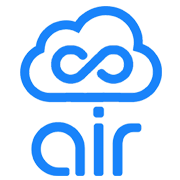
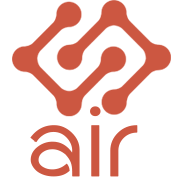
Change theme to red

diff --git a/assets/css/theme-orange.css b/assets/css/theme-orange.css
@@ -817,42 +817,42 @@ a:hover, a:focus, a:active { color: #de6288; }
 .io-zinnia .btns a:not(.btn) { color: rgba(254, 67, 80, 0.5); }
 .io-zinnia .btns a:not(.btn):hover { color: #58b4ff; }
 .io-zinnia .section-bg { background: #fff; }
-.io-zinnia .section-bg-alt { background: #f2f9ff; }
+/*!.io-zinnia .section-bg-alt { background: #f2f9ff; }*/
 .io-zinnia .section-bg, .io-zinnia .section-bg-alt { color: #4c5a77; }
 .io-zinnia .section-bg h1, .io-zinnia .section-bg h2, .io-zinnia .section-bg h3, .io-zinnia .section-bg h4, .io-zinnia .section-bg h5, .io-zinnia .section-bg h6, .io-zinnia .section-bg-alt h1, .io-zinnia .section-bg-alt h2, .io-zinnia .section-bg-alt h3, .io-zinnia .section-bg-alt h4, .io-zinnia .section-bg-alt h5, .io-zinnia .section-bg-alt h6 { color: #4c5a77; }
-.io-zinnia .section-bg p, .io-zinnia .section-bg-alt p { color: #4c5a77; }
+.io-zinnia .section-bg p, .io-zinnia .section-bg-alt p { color: #484848; }
 .io-zinnia .section-bg p.lead, .io-zinnia .section-bg-alt p.lead { color: #223b55; }
-.io-zinnia .section-bg .section-title-s7, .io-zinnia .section-bg .section-title-md, .io-zinnia .section-bg-alt .section-title-s7, .io-zinnia .section-bg-alt .section-title-md { color: #58b4ff; }
-.io-zinnia .section-bg-zinnia, .io-zinnia .section-bg-gradient { background: #58b4ff; color: #fff; }
+/*!.io-zinnia .section-bg .section-title-s7, .io-zinnia .section-bg .section-title-md, .io-zinnia .section-bg-alt .section-title-s7, .io-zinnia .section-bg-alt .section-title-md { color: #58b4ff; }*/
+/*.io-zinnia .section-bg-zinnia, .io-zinnia .section-bg-gradient { background: #58b4ff; color: #fff; }*/
 .io-zinnia .section-bg-zinnia h1, .io-zinnia .section-bg-zinnia h2, .io-zinnia .section-bg-zinnia h3, .io-zinnia .section-bg-zinnia h4, .io-zinnia .section-bg-zinnia h5, .io-zinnia .section-bg-zinnia h6, .io-zinnia .section-bg-zinnia p, .io-zinnia .section-bg-zinnia p.lead, .io-zinnia .section-bg-zinnia .section-head-s7 p, .io-zinnia .section-bg-zinnia .section-title-s7, .io-zinnia .section-bg-zinnia .section-title-md, .io-zinnia .section-bg-gradient h1, .io-zinnia .section-bg-gradient h2, .io-zinnia .section-bg-gradient h3, .io-zinnia .section-bg-gradient h4, .io-zinnia .section-bg-gradient h5, .io-zinnia .section-bg-gradient h6, .io-zinnia .section-bg-gradient p, .io-zinnia .section-bg-gradient p.lead, .io-zinnia .section-bg-gradient .section-head-s7 p, .io-zinnia .section-bg-gradient .section-title-s7, .io-zinnia .section-bg-gradient .section-title-md { color: #fff; }
 .io-zinnia .section-bg-gradient { background-image: linear-gradient(135deg, #1996FB 0%, #58b4ff 100%); }
-.io-zinnia .footer-section { background-image: linear-gradient(45deg, #1996FB 0%, #58b4ff 100%); }
+/*!.io-zinnia .footer-section { background-image: linear-gradient(45deg, #1996FB 0%, #58b4ff 100%); }*/
 .io-zinnia .footer-bottom .copyright-text { color: #fff; }
 .io-zinnia .widget-title { color: #fff; }
 .io-zinnia .timeline-title { color: #1996FB; }
 .io-zinnia .timeline-done .timeline-title { color: #223b55; }
-.io-zinnia .header-txt p { color: #ddf0ff; }
-.io-zinnia .btn { color: #fff; background-image: -webkit-linear-gradient(to right, #1996FB 0%, #58b4ff 100%); background-image: linear-gradient(to right, #1996FB 0%, #58b4ff 100%); }
+.io-zinnia .header-txt p { color: #ffff; }
+/*.io-zinnia .btn { color: #fff; background-image: -webkit-linear-gradient(to right, #1996FB 0%, #58b4ff 100%); background-image: linear-gradient(to right, #1996FB 0%, #58b4ff 100%); }*/
 .io-zinnia .btn:before { background-image: -webkit-linear-gradient(to right, #58b4ff 0%, #1996FB 100%); background-image: linear-gradient(to right, #58b4ff 0%, #1996FB 100%); }
 .io-zinnia .btn-outline { background: transparent; border-color: rgba(255, 255, 255, 0.4); }
-.io-zinnia .btn-outline:hover { color: #58b4ff; background: #fff; border-color: #fff; }
-.io-zinnia .btn-icon-s3 { background: #fff; color: #58b4ff; }
-.io-zinnia .btn-icon-s3 [class*="fa-"] { background: #1996FB; color: #fff; }
-.io-zinnia .btn-icon-s3:hover { color: #1996FB; }
-.io-zinnia .btn-icon-s3:hover [class*="fa-"] { background: #58b4ff; color: #fff; }
+/*!.io-zinnia .btn-outline:hover { color: #58b4ff; background: #fff; border-color: #fff; }*/
+.io-zinnia .btn-icon-s3 { background: #fff; color: #fe4350; }
+/*!.io-zinnia .btn-icon-s3 [class*="fa-"] { background: #1996FB; color: #fff; }*/
+/*!.io-zinnia .btn-icon-s3:hover { color: #1996FB; }*/
+/*!.io-zinnia .btn-icon-s3:hover [class*="fa-"] { background: #58b4ff; color: #fff; }*/
 .io-zinnia .btn.btn-plane { background: #1996FB; }
 .io-zinnia .text-block ul:not(.btns) li:before { background: #fe8f97; }
 .io-zinnia .text-block h2 { color: #58b4ff; }
 .io-zinnia .text-block p:not(.lead) { color: #4c5a77; }
 .io-zinnia .site-header .navbar-nav > li > a { color: #fff; }
 .io-zinnia .site-header .navbar-nav > li > a:hover, .io-zinnia .site-header .navbar-nav > li > a.active { color: #223b55; }
-.io-zinnia .site-header.has-fixed .navbar-nav > li > a { color: #223b55; }
-.io-zinnia .site-header.has-fixed .navbar-nav > li > a:hover, .io-zinnia .site-header.has-fixed .navbar-nav > li > a.active { color: #58b4ff; }
+.io-zinnia .site-header.has-fixed .navbar-nav > li > a { color: #484848; }
+/*!.io-zinnia .site-header.has-fixed .navbar-nav > li > a:hover, .io-zinnia .site-header.has-fixed .navbar-nav > li > a.active { color: #58b4ff; }*/
 .io-zinnia .site-header.has-fixed .navbar { background: #fff; }
 .io-zinnia .navbar .btn-outline:after { background: #362995; }
-.io-zinnia .site-header.has-fixed .btn-outline { color: #58b4ff; border-color: rgba(90, 149, 200, 0.2); }
+/*! .io-zinnia .site-header.has-fixed .btn-outline { color: #58b4ff; border-color: rgba(90, 149, 200, 0.2); }*/
 .io-zinnia .site-header.has-fixed .btn-outline:after { background: #fff; }
-.io-zinnia .site-header.has-fixed .btn-outline:hover { color: #fff; background: #58b4ff; }
+/*!.io-zinnia .site-header.has-fixed .btn-outline:hover { color: #fff; background: #58b4ff; }*/
 .io-zinnia .lang-switch a { color: #fff; }
 .io-zinnia .lang-switch.show > a { color: #223b55; }
 .io-zinnia .lang-switch:hover a { color: #223b55; background-color: transparent; }
@@ -883,11 +883,11 @@ a:hover, a:focus, a:active { color: #de6288; }
 .io-zinnia .timeline-row-even:after { border-right: none; }
 .io-zinnia .timeline-row-odd:after { border-left: none; }
 .io-zinnia .timeline-row-done:after { border-color: #fff; }
-.io-zinnia .team-circle .team-photo:before { background: linear-gradient(180deg, #58b4ff 0%, #1996FB 100%); }
-.io-zinnia .team-circle .team-title { color: #4c5a77; }
-.io-zinnia .team-circle .team-name { color: #58b4ff; }
-.io-zinnia .team-circle .team-social li a { color: #4c5a77; }
-.io-zinnia .team-circle .team-social li a:hover { color: #58b4ff; }
+/*!.io-zinnia .team-circle .team-photo:before { background: linear-gradient(180deg, #58b4ff 0%, #1996FB 100%); }*/
+.io-zinnia .team-circle .team-title { color: #484848; }
+/*!.io-zinnia .team-circle .team-name { color: #58b4ff; }*/
+.io-zinnia .team-circle .team-social li a { color: #484848; }
+/*!.io-zinnia .team-circle .team-social li a:hover { color: #58b4ff; }*/
 .io-zinnia .bg-team-exp.mfp-bg, .io-zinnia .skill-bar-percent { background: linear-gradient(-45deg, #58b4ff 0%, #1996FB 100%); }
 .io-zinnia .tab-custom-s3 .nav-tabs .nav-link { background: #eff1f3; color: #5a5d7a; }
 .io-zinnia .tab-custom-s3 .nav-tabs .nav-link:before { background: linear-gradient(-45deg, #58b4ff 0%, #1996FB 100%); }
@@ -906,7 +906,7 @@ a:hover, a:focus, a:active { color: #de6288; }
 .io-zinnia .loader-section { background: #fff; }
 .io-zinnia .contact-info li .fa { color: #fff; background: linear-gradient(-45deg, #58b4ff 0%, #1996FB 100%); }
 .io-zinnia .form-message .input-field .input-line { color: #5a5d7a; border-bottom-color: #dee2e6; }
-.io-zinnia .form-message .input-field .input-line:focus { border-bottom-color: rgba(25, 150, 251, 0.6); }
+/*!.io-zinnia .form-message .input-field .input-line:focus { border-bottom-color: rgba(25, 150, 251, 0.6); }*/
 .io-zinnia .form-message .input-field .input-line.error { border-bottom-color: #fe4350; }
 
 @media only screen and (max-width: 991px) { .io-zinnia .timeline-title:before { border-top-color: #fff; }
@@ -921,7 +921,7 @@ a:hover, a:focus, a:active { color: #de6288; }
   .io-zinnia .site-header .navbar .btn-outline:hover { color: #fff; background: #58b4ff; }
   .io-zinnia .site-header .navbar.is-transparent.active { background: #fff; box-shadow: 0 10px 40px rgba(93, 70, 232, 0.15); } }
 @media only screen and (max-width: 991px) { .io-zinnia .timeline-row:before { border-left-color: #a7010c; } }
-.banner-zinnia { background: linear-gradient(135deg, #1996FB 0%, #58b4ff 100%); }
+/*!.banner-zinnia { background: linear-gradient(135deg, #1996FB 0%, #58b4ff 100%); }*/
 
 .section-title-s7 { color: #58b4ff; }
 

diff --git a/assets/css/style.css b/assets/css/style.css
@@ -75,7 +75,7 @@ h1 + .image:not([class*="mt-"]), h2 + .image:not([class*="mt-"]), h3 + .image:no
 }
 
 .collapsible {
-  background-color: #58b4ff;
+  background-color: #ec664f;
   color: white;
   cursor: pointer;
   padding: 18px;
@@ -88,14 +88,14 @@ h1 + .image:not([class*="mt-"]), h2 + .image:not([class*="mt-"]), h3 + .image:no
 }
 
 .collapsible:hover {
-  background-color: #1996FB;
+  background-color: #eb5954;
 }
 
 .content {
   padding: 0 18px;
   display: none;
   overflow: hidden;
-  background-color: #f2f9ff;
+  background-color: #fff5f6;
 }
 
 .prblm-item img{
@@ -1489,8 +1489,8 @@ select:focus { outline: none; border: none; }
 .form-message { /* @v1.1.0 s */ /* @v1.1.0 e */ }
 .form-message .input-field { margin-bottom: 20px; position: relative; }
 .form-message .input-field .btn { margin-top: 10px; }
-.form-message .input-field label.input-title { position: absolute; width: 100%; top: 18px; left: 0; color: #8284a5; z-index: 1; transition: all .5s ease; }
-.form-message .input-field .input-line { position: relative; line-height: 46px; z-index: 2; background: transparent; border: none; width: 100%; text-align: center; color: #fff; border-bottom: 1px solid #46bdf4; margin-top: 8px; outline: none; }
+.form-message .input-field label.input-title { position: absolute; width: 100%; top: 18px; left: 0; color: #484848; z-index: 1; transition: all .5s ease; }
+.form-message .input-field .input-line { position: relative; line-height: 46px; z-index: 2; background: transparent; border: none; width: 100%; text-align: center; color: #fff; border-bottom: 1px solid #ed664f; margin-top: 8px; outline: none; }
 .form-message .input-field .input-line.error { border-bottom-color: #d2636d; }
 .form-message .input-field .txtarea { height: 105px; resize: none; outline: none; line-height: 21px; padding-top: 14px; }
 .form-message .input-field .txtarea + .input-title { top: 75px; }
@@ -3344,8 +3344,9 @@ label.error { display: none !important; font-size: 13px; margin-top: 5px; color:
 .io-zinnia .section-bg h1, .io-zinnia .section-bg h2, .io-zinnia .section-bg h3, .io-zinnia .section-bg h4, .io-zinnia .section-bg h5, .io-zinnia .section-bg h6, .io-zinnia .section-bg-alt h1, .io-zinnia .section-bg-alt h2, .io-zinnia .section-bg-alt h3, .io-zinnia .section-bg-alt h4, .io-zinnia .section-bg-alt h5, .io-zinnia .section-bg-alt h6 { color: #4c5a77; }
 .io-zinnia .section-bg p, .io-zinnia .section-bg-alt p { color: #4c5a77; }
 .io-zinnia .section-bg p.lead, .io-zinnia .section-bg-alt p.lead { color: #223b55; }
-.io-zinnia .section-bg .section-title-s7, .io-zinnia .section-bg .section-title-md, .io-zinnia .section-bg-alt .section-title-s7, .io-zinnia .section-bg-alt .section-title-md { color: #fe4350; }
-.io-zinnia .section-bg-zinnia, .io-zinnia .section-bg-gradient { background: #fe4350; color: #fff; }
+.io-zinnia .section-bg .section-title-s7, .io-zinnia .section-bg .section-title-md, .io-zinnia .section-bg-alt .section-title-s7, .io-zinnia .section-bg-alt .section-title-md { color: #cc5741; }
+/*!.io-zinnia .section-bg-zinnia, .io-zinnia .section-bg-gradient { background: #fe4350; color: #fff; }*/
+.io-zinnia .section-bg-zinnia, .io-zinnia .section-bg-gradient { background: #f75e4a; color: #fff; }
 .io-zinnia .section-bg-zinnia h1, .io-zinnia .section-bg-zinnia h2, .io-zinnia .section-bg-zinnia h3, .io-zinnia .section-bg-zinnia h4, .io-zinnia .section-bg-zinnia h5, .io-zinnia .section-bg-zinnia h6, .io-zinnia .section-bg-zinnia p, .io-zinnia .section-bg-zinnia p.lead, .io-zinnia .section-bg-zinnia .section-head-s7 p, .io-zinnia .section-bg-zinnia .section-title-s7, .io-zinnia .section-bg-zinnia .section-title-md, .io-zinnia .section-bg-gradient h1, .io-zinnia .section-bg-gradient h2, .io-zinnia .section-bg-gradient h3, .io-zinnia .section-bg-gradient h4, .io-zinnia .section-bg-gradient h5, .io-zinnia .section-bg-gradient h6, .io-zinnia .section-bg-gradient p, .io-zinnia .section-bg-gradient p.lead, .io-zinnia .section-bg-gradient .section-head-s7 p, .io-zinnia .section-bg-gradient .section-title-s7, .io-zinnia .section-bg-gradient .section-title-md { color: #fff; }
 .io-zinnia .section-bg-gradient { background-image: linear-gradient(135deg, #ff6c3f 0%, #fe4350 100%); }
 .io-zinnia .footer-section { overflow: hidden; background-image: linear-gradient(45deg, #ff6c3f 0%, #fe4350 100%); }
@@ -3375,7 +3376,7 @@ label.error { display: none !important; font-size: 13px; margin-top: 5px; color:
 .io-zinnia .site-header .navbar-nav > li > a:hover, .io-zinnia .site-header .navbar-nav > li > a.active { color: #223b55; }
 .io-zinnia .site-header .navbar-nav > li.open > a { color: #223b55; }
 .io-zinnia .site-header.has-fixed .navbar-nav > li > a { text-transform: capitalize; color: #223b55; }
-.io-zinnia .site-header.has-fixed .navbar-nav > li > a:hover, .io-zinnia .site-header.has-fixed .navbar-nav > li > a.active { color: #fe4350; }
+.io-zinnia .site-header.has-fixed .navbar-nav > li > a:hover, .io-zinnia .site-header.has-fixed .navbar-nav > li > a.active { color: #cc5741; }
 .io-zinnia .site-header.has-fixed .navbar-nav > li.open > a { color: #fe4350; }
 .io-zinnia .site-header.has-fixed .navbar.is-transparent .navbar-brand .logo-dark { display: block; }
 .io-zinnia .site-header.has-fixed .navbar.is-transparent .navbar-brand .logo-light { display: none; }
@@ -3432,8 +3433,8 @@ label.error { display: none !important; font-size: 13px; margin-top: 5px; color:
 .io-zinnia .team-circle .team-photo img { transition: all .6s; }
 .io-zinnia .team-circle .team-photo:hover img { transform: scale(0.85); }
 .io-zinnia .team-circle .team-photo:before { opacity: 1; transform: translateX(-50%) scale(1); background: linear-gradient(180deg, #fe4350 0%, #ff6c3f 100%); }
-.io-zinnia .team-circle .team-title { color: #4c5a77; }
-.io-zinnia .team-circle .team-name { color: #fe4350; }
+.io-zinnia .team-circle .team-title { color: #484848; }
+.io-zinnia .team-circle .team-name { color: #cc5741; }
 .io-zinnia .team-circle .team-social li a { color: #4c5a77; }
 .io-zinnia .team-circle .team-social li a:hover { color: #fe4350; }
 .io-zinnia .bg-team-exp.mfp-bg, .io-zinnia .skill-bar-percent { background: linear-gradient(-45deg, #fe4350 0%, #ff6c3f 100%); }

diff --git a/index.html b/index.html
@@ -87,7 +87,7 @@
 															</div>
 
 								<div class="col-lg-4 col-md-12" style="float:left;">
-								<img src="images/fiat-crypto9.png" class="exchange-icon lead animated" data-animate="fadeInUp" data-delay="0.35" />
+								<img src="images/fiat-crypto10.png" class="exchange-icon lead animated" data-animate="fadeInUp" data-delay="0.35" />
 
 
 								<!--<div class="slideshow-container">
@@ -171,7 +171,7 @@ function showSlides() {
 						<h2 class="section-title-s7 animated" data-animate="fadeInUp" data-delay=".1">About Air Protocol</h2>
 						<p class="animated" data-animate="fadeInUp" data-delay=".2">The Air Protocol is a decentralized, open source protocol that enables censorship-resistant and trust-minimized fiat to crypto exchange.</p>
 						<div class="videoWrapper">
-							<iframe width="700" height="394" src="https://www.youtube.com/embed/FHi2FDUs3fg" frameborder="0" allow="accelerometer; autoplay; encrypted-media; gyroscope; picture-in-picture" allowfullscreen style="margin-bottom:100px;"></iframe>
+							<iframe width="700" height="394" src="https://www.youtube.com/embed/xBsXwA3Tce0" frameborder="0" allow="accelerometer; autoplay; encrypted-media; gyroscope; picture-in-picture" allowfullscreen style="margin-bottom:100px;"></iframe>
 						</div>
       	</div>
 				</div>
@@ -287,15 +287,15 @@ function showSlides() {
 			</div><!--row-->
 			<div class="row justify-content-center text-center">
 			<div class="col-md-4 col-sm-12 " style="margin-top:20px;">
-                 	<h2 class="prblm-title animated" data-animate="fadeInUp" data-delay=".1" style="color:#4c5a77 !important;">Blockchain integrations</h2>
+                 	<h2 class="prblm-title animated" data-animate="fadeInUp" data-delay=".1" style="color:#484848 !important;">Blockchain integrations</h2>
                     <p style="text-align:justify; font-weight:400;" class="animated"  data-animate="fadeInUp" data-delay=".1">Every cryptocurrency project needs fiat on and offramps so that legacy money <!--(centralized, easily debased, easy to censor and confiscate) -->can be exchanged for blockchain-based assets that are increasingly essential to freedom and the protection of basic human rights. If you are a developer contributing to a public blockchain project, get in touch to help build an Air Protocol implementation.</p>
               </div>
               <div class="col-md-4 col-sm-12"  style="margin-top:20px;">
-                 	<h2 class="prblm-title animated" data-animate="fadeInUp" data-delay=".1" style="color:#4c5a77 !important;">Arbitration Dapps</h2>
+                 	<h2 class="prblm-title animated" data-animate="fadeInUp" data-delay=".1" style="color:#484848 !important;">Arbitration Dapps</h2>
                     <p style="text-align:justify; font-weight:400;" class="animated"  data-animate="fadeInUp" data-delay=".1">Are you a lawyer, financial consultant, or judge? Do you run a call center? You and your organization can offer your arbitration services to resolve disputes that arise from Air Protocol transactions.</p>
               </div>
               <div class="col-md-4 col-sm-12"  style="margin-top:20px;">
-                 	<h2 class="prblm-title animated" data-animate="fadeInUp" data-delay=".1" style="color:#4c5a77 !important;" >Local exchange Dapps</h2>
+                 	<h2 class="prblm-title animated" data-animate="fadeInUp" data-delay=".1" style="color:#484848 !important;" >Local exchange Dapps</h2>
                     <p style="text-align:justify; font-weight:400;" class="animated"  data-animate="fadeInUp" data-delay=".1">Are you a P2P trader on Localbitcions or an advanced peer on Airtm? Do you have a community that needs to receive remittances or payments from abroad? <!--Do you organize cryptocurrency meetups or run a finance club? With the Air Protocol’s free open source Local Exchange software, you can launch your own P2P exchange and help people exchange local money for cryptocurrency and vice versa.-->With Air Protocol you can launch your own P2P exchange and help people exchange local money for cryptocurrency and vice versa.</p>
               </div>
               <a href="#contact" class="nav-link btn btn-outline menu-link animated"  data-animate="fadeInUp" data-delay=".1" style="margin-top:20px;">Join us</a></div>
@@ -463,8 +463,8 @@ function showSlides() {
 
 				<div class="col-md-5 col-sm-12 cases-box" style="margin-top:20px;">
 					<a href="https://medium.com/@AirProtocol/why-air-protocol-ba13ee2c5ab0" target="_blank">
-					<img src="images/blog001.png" class="animated" data-animate="fadeInUp" data-delay=".1" />
-					<h2 class="prblm-title animated" data-animate="fadeInUp" data-delay=".1" style="font-size:22px; color:#4c5a77 !important;">Why Air Protocol?</h2>
+					<img src="images/blog002.png" class="animated" data-animate="fadeInUp" data-delay=".1" />
+					<h2 class="prblm-title animated" data-animate="fadeInUp" data-delay=".1" style="font-size:22px; color:#484848 !important;">Why Air Protocol?</h2>
 					<p style="text-align:justify;" class="animated"  data-animate="fadeInUp" data-delay=".1" style="font-size:14px;">Air Protocol: a censorship-resistant, trust-minimized, blockchain-agnostic open source protocol for crypto <em class="fas fa-arrows-alt-h"></em>fiat exchange.</p>
 				</a>
 			</div>
